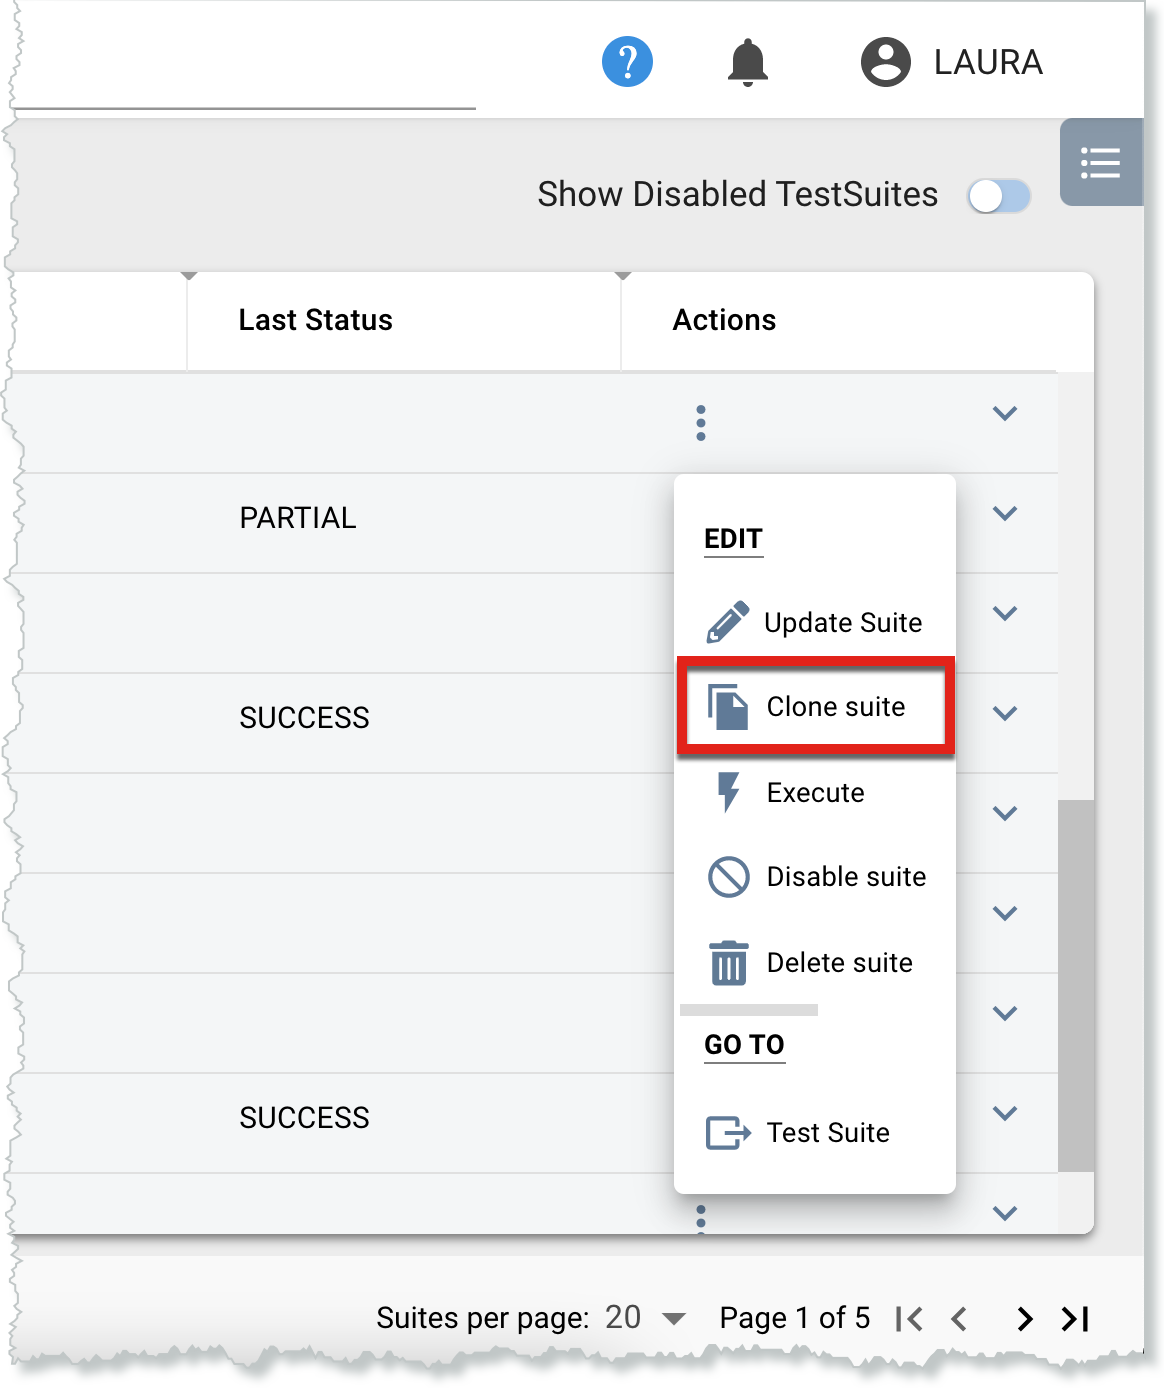
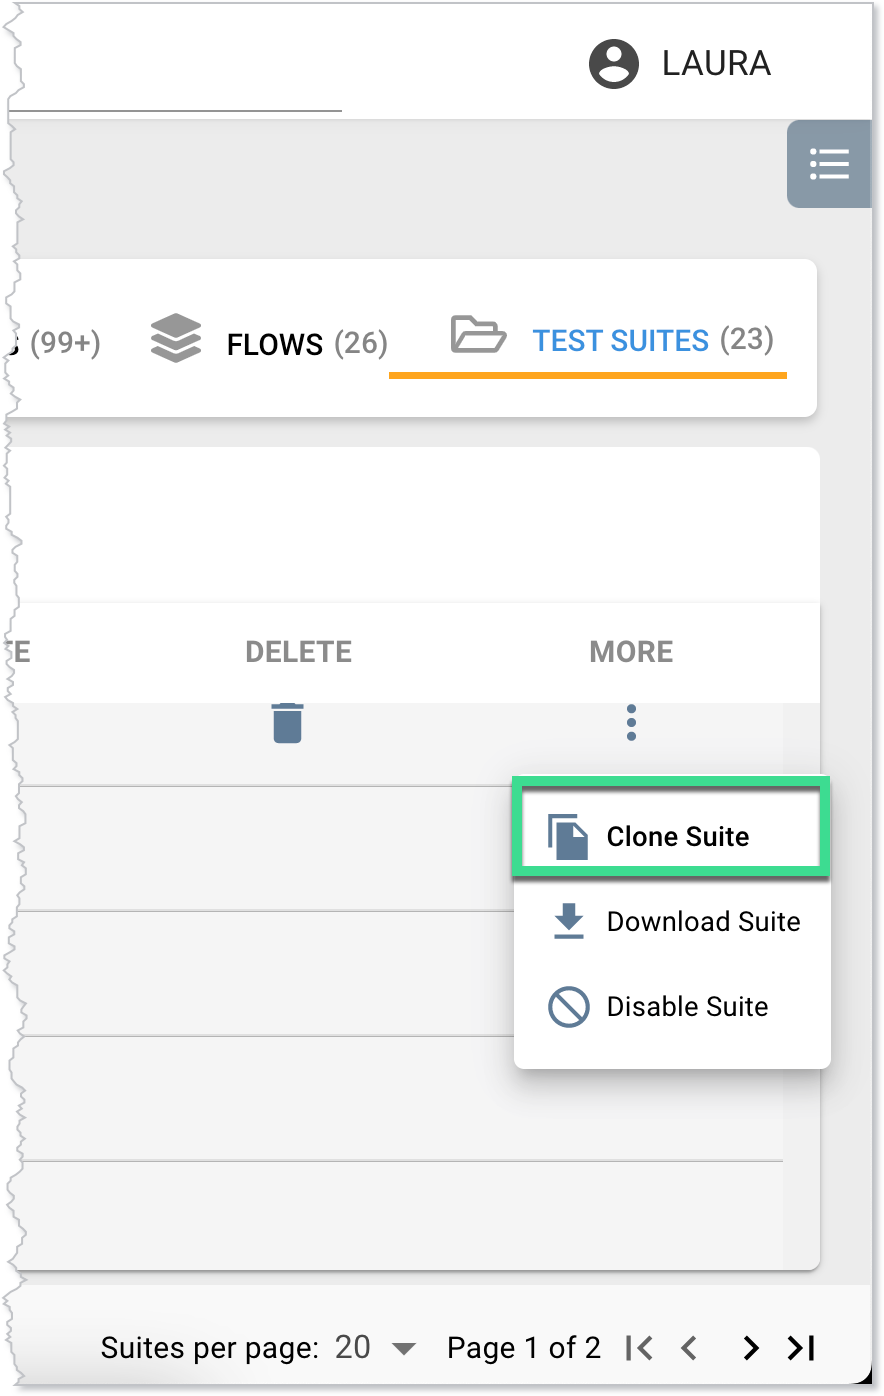
LC Projects - final

diff --git a/sidebars.js b/sidebars.js
@@ -338,18 +338,18 @@ module.exports = {
                     label: 'Projects',
                     collapsed: true,
                     items: [
-                        'dev/low-code/projects/projects',
+                        'dev/low-code/projects',
                         {
                             type: 'category',
                             label: 'Project Details',
                             collapsed: true,
                             items: [
-                                'dev/low-code/projects/project-details/ptoject-details',
+                                'dev/low-code/projects/project-details/project-details',
                                 'dev/low-code/projects/project-details/test-cases',
                                 'dev/low-code/projects/project-details/data',
                                 'dev/low-code/projects/project-details/variables',
                                 'dev/low-code/projects/project-details/flows',
-                                'dev/low-code/projects/test-suites',
+                                'dev/low-code/projects/project-details/test-suites',
                                     ],
                             },
                             ],

diff --git a/docs/dev/low-code/projects.md b/docs/dev/low-code/projects.md
@@ -184,40 +184,33 @@ Click the more options button to access the dropdown. From there you can:
 <img src={useBaseUrl('/img/dev/low-code/recording-more-options.png')} alt="Starting a recording -- More options" width="400"/>
 
 ### Project Details Page
-The **Project Details** page displays information about the selected project, including test cases, variables, and data. From here you can also create or upload new test cases, data, variables, flows, and test suites.
 
-Click the information icon next to your test name to view the created and updated dates, and the project’s execution stats.
-
-<img src={useBaseUrl('/img/dev/low-code/project-details-info.png')} alt="Project Details page -- Info icon" width="400"/>
-
-Click the more actions icon to view or modify the project properties, download the project details as a .xlsx file, or disable the project.
-
-<img src={useBaseUrl('/img/dev/low-code/project-details-more-actions.png')} alt="Project Details page - More actions button" width="400"/>
+The **Project Details** page displays information about the selected project, including test cases, variables, and data. From here you can also create or upload new test cases, data, variables, flows, and test suites. For more information, see [Project Details](dev/low-code/projects/project-details/project-details.md).
 
 ## Test Cases Tab
 
 
-The **Test Cases** tab consists of a table of information about the test cases that are part of the project. From this page you can also create a new test case. For more information, see [Test Cases](dev/low-code/projects/project-details/test-cases).
+The **Test Cases** tab consists of a table of information about the test cases that are part of the project. From this page you can also create a new test case. For more information, see [Test Cases](dev/low-code/projects/project-details/test-cases.md).
 
 ## Test Cases Page
-On the **Test Cases** page you can view, update, move, or disable a test case. In addition, you can add tags to test cases and easily access the step editor. For more information, see [Test Cases](dev/low-code/projects/project-details/test-cases).
+On the **Test Cases** page you can view, update, move, or disable a test case. In addition, you can add tags to test cases and easily access the step editor. For more information, see [Test Cases](dev/low-code/projects/project-details/test-cases.md).
 
 
 ## Data Tab
 
-The **Data** tab displays the data uploaded to a project, in table form. From this screen you can also upload new data, and delete and download existing data. For more information, see [Data](dev/low-code/projects/project-details/data).
+The **Data** tab displays the data uploaded to a project, in table form. From this screen you can also upload new data, and delete and download existing data. For more information, see [Data](dev/low-code/projects/project-details/data.md).
 
 ## Variables Tab
 
-For information about specific variables, see [Variables](/dev/low-code/variables). For more information about the Variables tab, see [Variables Tab](dev/low-code/projects/project-details/variables).
+For information about specific variables, see [Variables](/dev/low-code/variables). For more information about the Variables tab, see [Variables Tab](dev/low-code/projects/project-details/variables.md).
 
 ## Flows Tab
 
-A flow is a set of steps that are linked for easy re-use. The **Flows** tab displays the flows associated with a project. For more information, see [Flows](dev/low-code/projects/project-details/flows).
+A flow is a set of steps that are linked for easy re-use. The **Flows** tab displays the flows associated with a project. For more information, see [Flows](dev/low-code/projects/project-details/flows.md).
 
 ## Test Suites Tab
 
-A test suite is a collection of test cases in a project. The **Test Suites** tab displays the test suites in a project, in table form. From this screen you can also create a new test suite, and clone, download, and disable existing test suites. For more information, see [Test Suites](dev/low-code/projects/project-details/test-suites).
+A test suite is a collection of test cases in a project. The **Test Suites** tab displays the test suites in a project, in table form. From this screen you can also create a new test suite, and clone, download, and disable existing test suites. For more information, see [Test Suites](dev/low-code/projects/project-details/test-suites.md).
 
 ## Test Suites Page
-On the **Test Suites** page you can view, update, execute, clone, or delete a test suite. In addition, you can view the test cases associated with the suite, as well as quickly access the step editor. For more information, see [Test Suites](dev/low-code/projects/project-details/test-suites).
+On the **Test Suites** page you can view, update, execute, clone, or delete a test suite. In addition, you can view the test cases associated with the suite, as well as quickly access the step editor. For more information, see [Test Suites](dev/low-code/projects/project-details/test-suites.md).

diff --git a/docs/dev/low-code/projects/project-details/test-suites.md b/docs/dev/low-code/projects/project-details/test-suites.md
@@ -160,7 +160,7 @@ You can set a test suite or suites to be triggered after the completion of the p
 </table>
 
 
-## Test Suites
+## Test Suites Page
 On the **Test Suites** page you can view, update, execute, clone, or delete a test suite. In addition, you can view the test cases associated with the suite, as well as quickly access the step editor.
 
 ## Test Suites Page Components
@@ -176,12 +176,6 @@ On the **Test Suites** page you can view, update, execute, clone, or delete a te
     <td colspan='2'><b>Suite</b>
     </td>
     <td>The name given to the test suite.<br/><br/>Click the up or down arrow next to the column name to sort the table by suite name.
-    </td>
-  </tr>
-  <tr>
-    <td colspan='2'><b>Project</b>
-    </td>
-    <td>The name of the project to which the test suite belongs.<br/><br/>Click the up or down arrow next to the column name to sort the table by project name.
     </td>
   </tr>
   <tr>
@@ -202,66 +196,24 @@ On the **Test Suites** page you can view, update, execute, clone, or delete a te
     <td>The most recent status of the test suite.<br/><br/>Click the up or down arrow next to the column name to sort the table by last status.
     </td>
   </tr>
+
   <tr>
-    <td rowspan='6'><b>Actions</b>
+    <td colspan='2'><b>More</b>
     </td>
-    <td><b>Update Suite</b>
-    </td>
-    <td>Update the name and description for the test suite. See <a href="#updating-a-test-suite">Updating a Test Suite</a> for more information.
-    </td>
-  </tr>
-  <tr>
-    <td><b>Clone Suite</b>
-    </td>
-    <td>Clone the test suite. See <a href="#cloning-a-test-suite">Cloning a Test Suite</a> for more information.
-    </td>
-  </tr>
-  <tr>
-    <td><b>Execute</b>
-    </td>
-    <td>Execute the test suite. See <a href="#executing-a-test-suite">Executing a Test Suite</a> for more information.
-    </td>
-  </tr>
-  <tr>
-    <td><b>Disable Suite</b>
-    </td>
-    <td>Disable the test suite.
-    </td>
-  </tr>
-  <tr>
-    <td><b>Delete Suite</b>
-    </td>
-    <td>Delete the test suite.
-    </td>
-  </tr>
-  <tr>
-    <td><b>Go To Test Suite</b>
-    </td>
-    <td>Opens the <b>Project Details -> Suites</b> page for the test suite. See <a href="/dev/low-code/plan/projects/project-details-page#test-suites-tab">Test Suites Tab</a> for more information.
+    <td><ul>
+    <li><b>Clone Suite</b></li>
+    <li><b>Disable Suite</b></li>
+    <li><b>Delete Suite</b></li>
+    </ul>
     </td>
   </tr>
 </table>
-
-## Updating a Test Suite
-
-To update a test suite:
-
-1. On the dashboard, in the left navigation, click **Plan** and then click **Test Suites**.
-
-<img src={useBaseUrl('/img/dev/low-code/test-suites-nav.png')} alt="Navigating to the Test Suites page" width="350"/>
-
-2. Next to the test suite you want to update, click the **Actions** icon and then click **Update Suite**.
-
-<img src={useBaseUrl('/img/dev/low-code/test-suites-update-nav.png')} alt="Navigating to the Update Suite window" width="300"/>
-
-See [Creating a Test Suite](/dev/low-code/plan/projects/project-details-page#creating-a-test-suite) for information about the tabs in the **Update Suite** window.
 
 ## Cloning a Test Suite
 
 To clone a test suite:
 
-1. On the dashboard, in the left navigation, click **Plan** and then click **Test Suites**.
-2. Next to the test suite you want to clone, click the **Actions** icon and then click **Clone Suite**.
+1. On the **Test Suites** tab, click the more options button and then click **Clone Suite**.
 
 <img src={useBaseUrl('/img/dev/low-code/test-suites-clone-nav.png')} alt="Navigating to the Clone Suite window" width="350"/>
 
@@ -273,7 +225,6 @@ To clone a test suite:
 
 To execute a test suite:
 
-1. On the dashboard, in the left navigation, click **Plan** and then click **Test Suites**.
-2. Next to the test suite you want to clone, click the **Actions** icon and then click **Execute**.
+1.  On the **Test Suites** tab, next to the test suite, click **Execute**.
 
 <img src={useBaseUrl('/img/dev/low-code/test-suites-execute-nav.png')} alt="Navigating to the test suite execution window" width="350"/>
